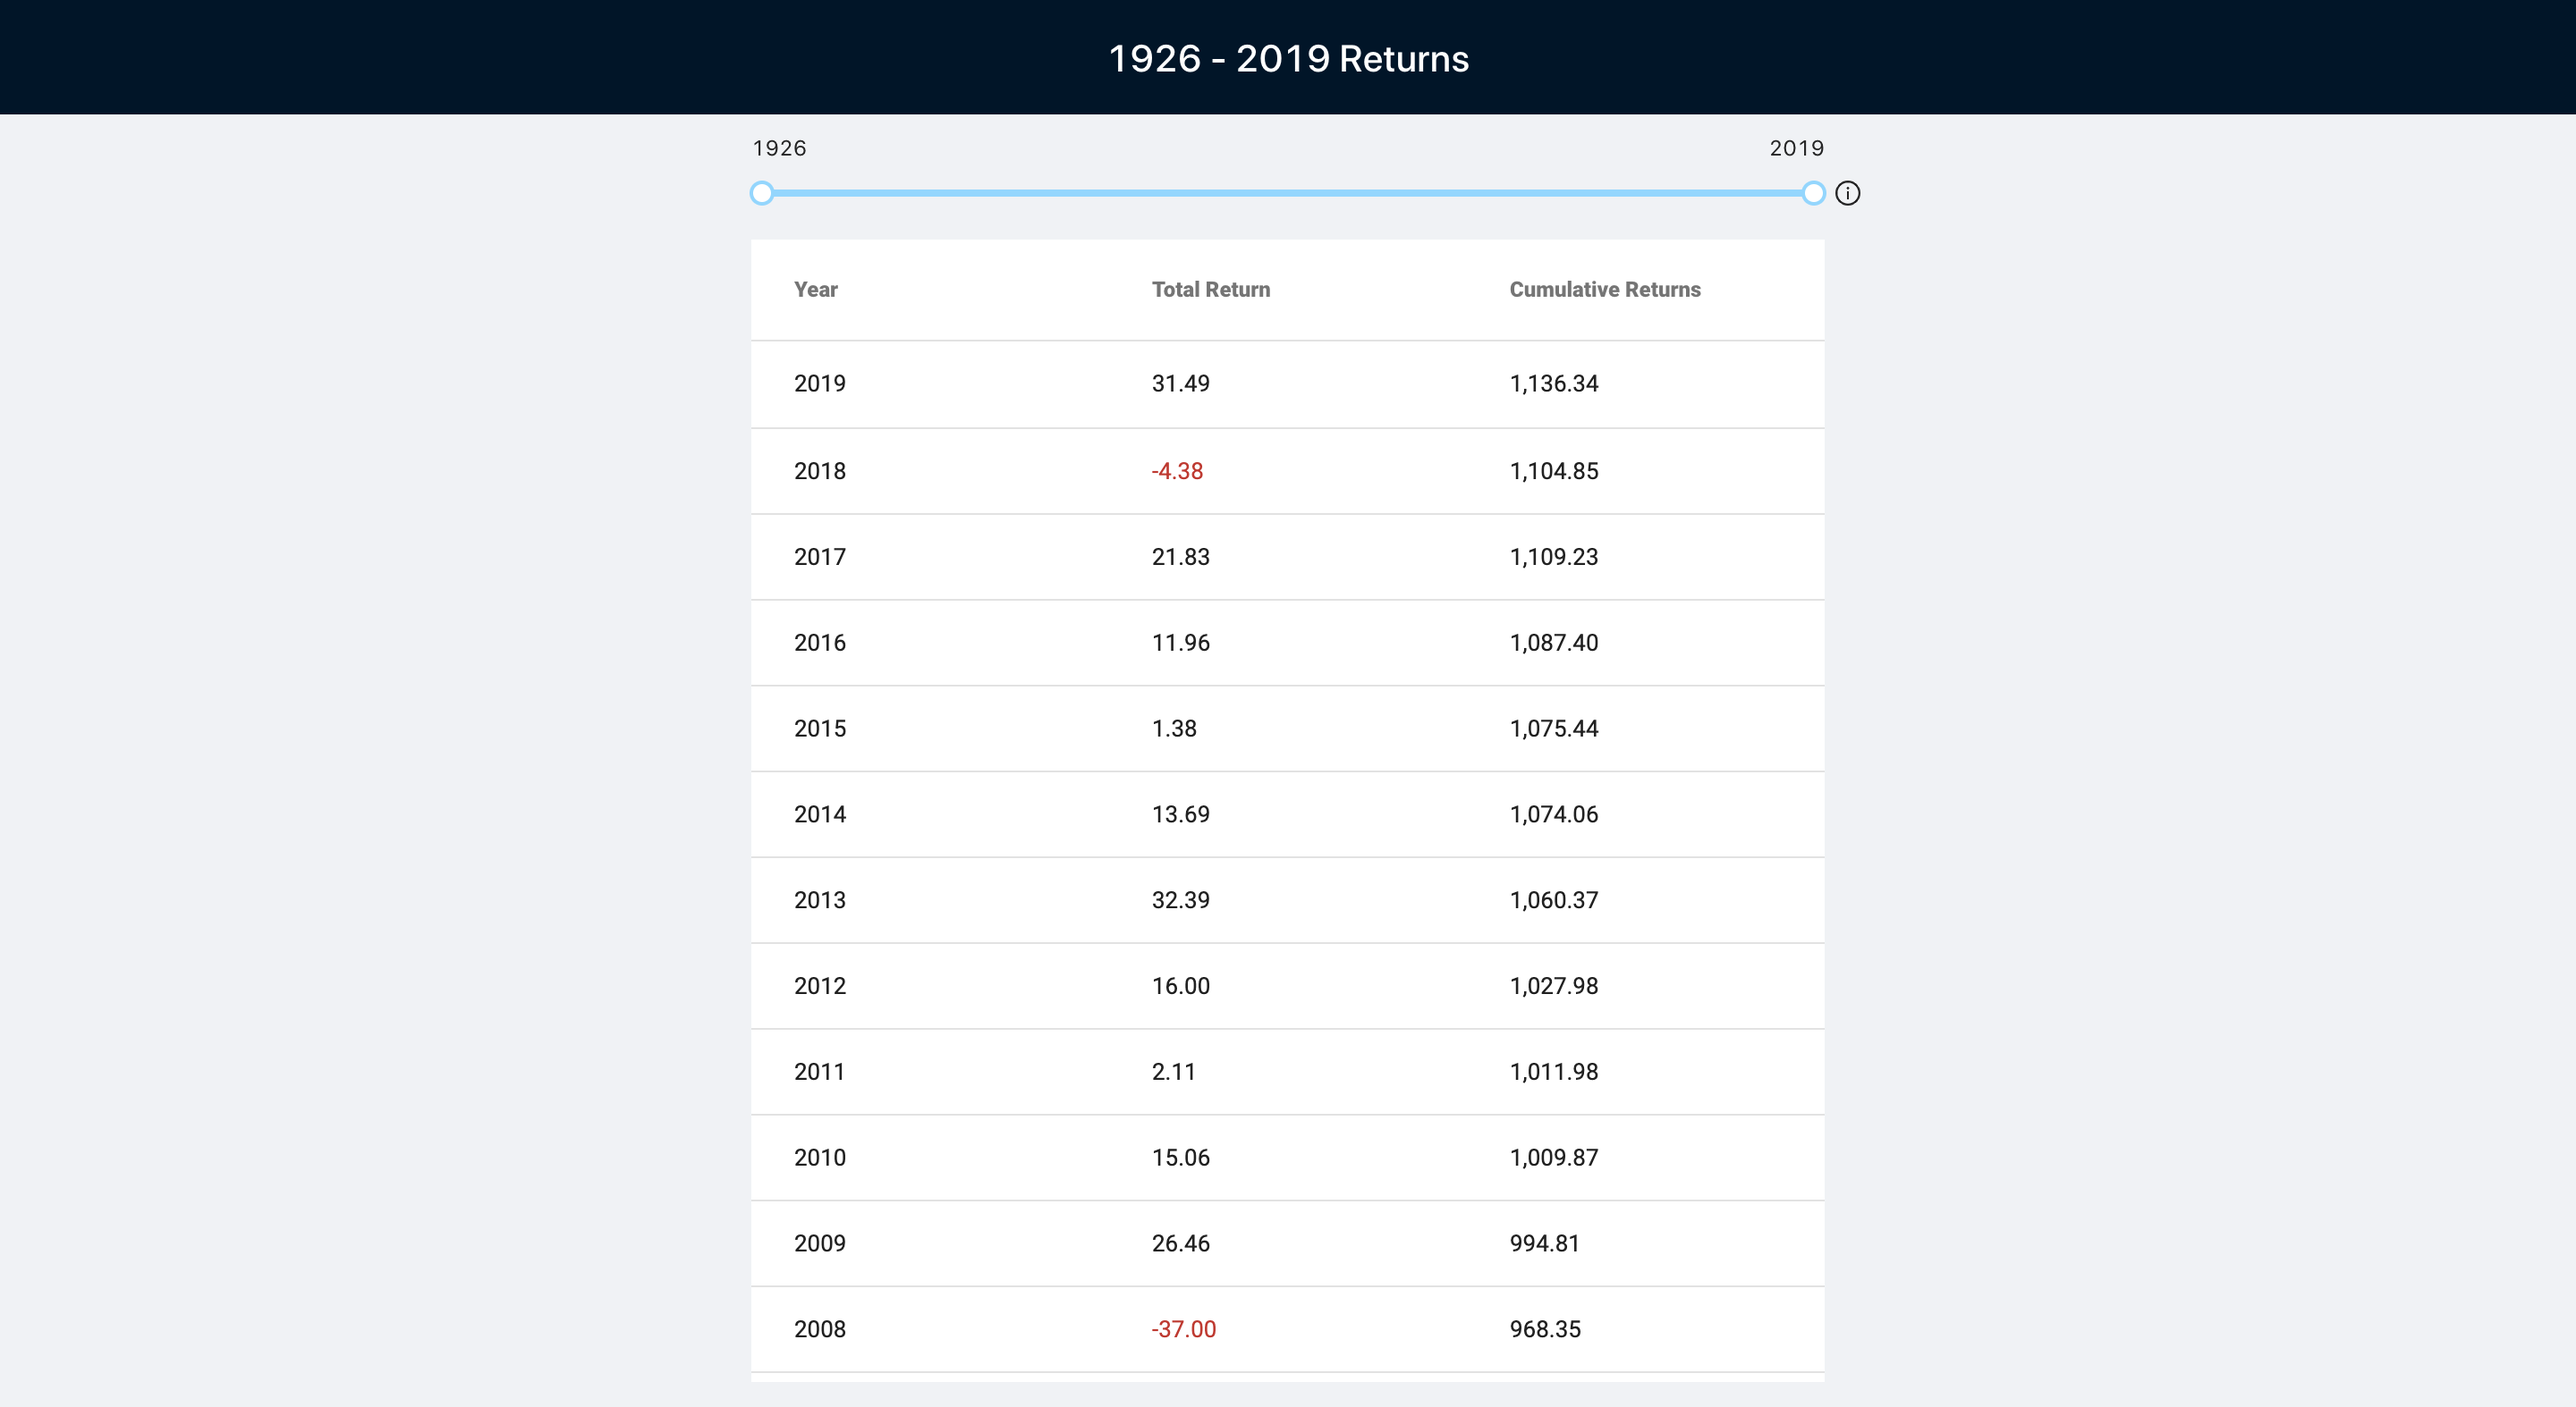
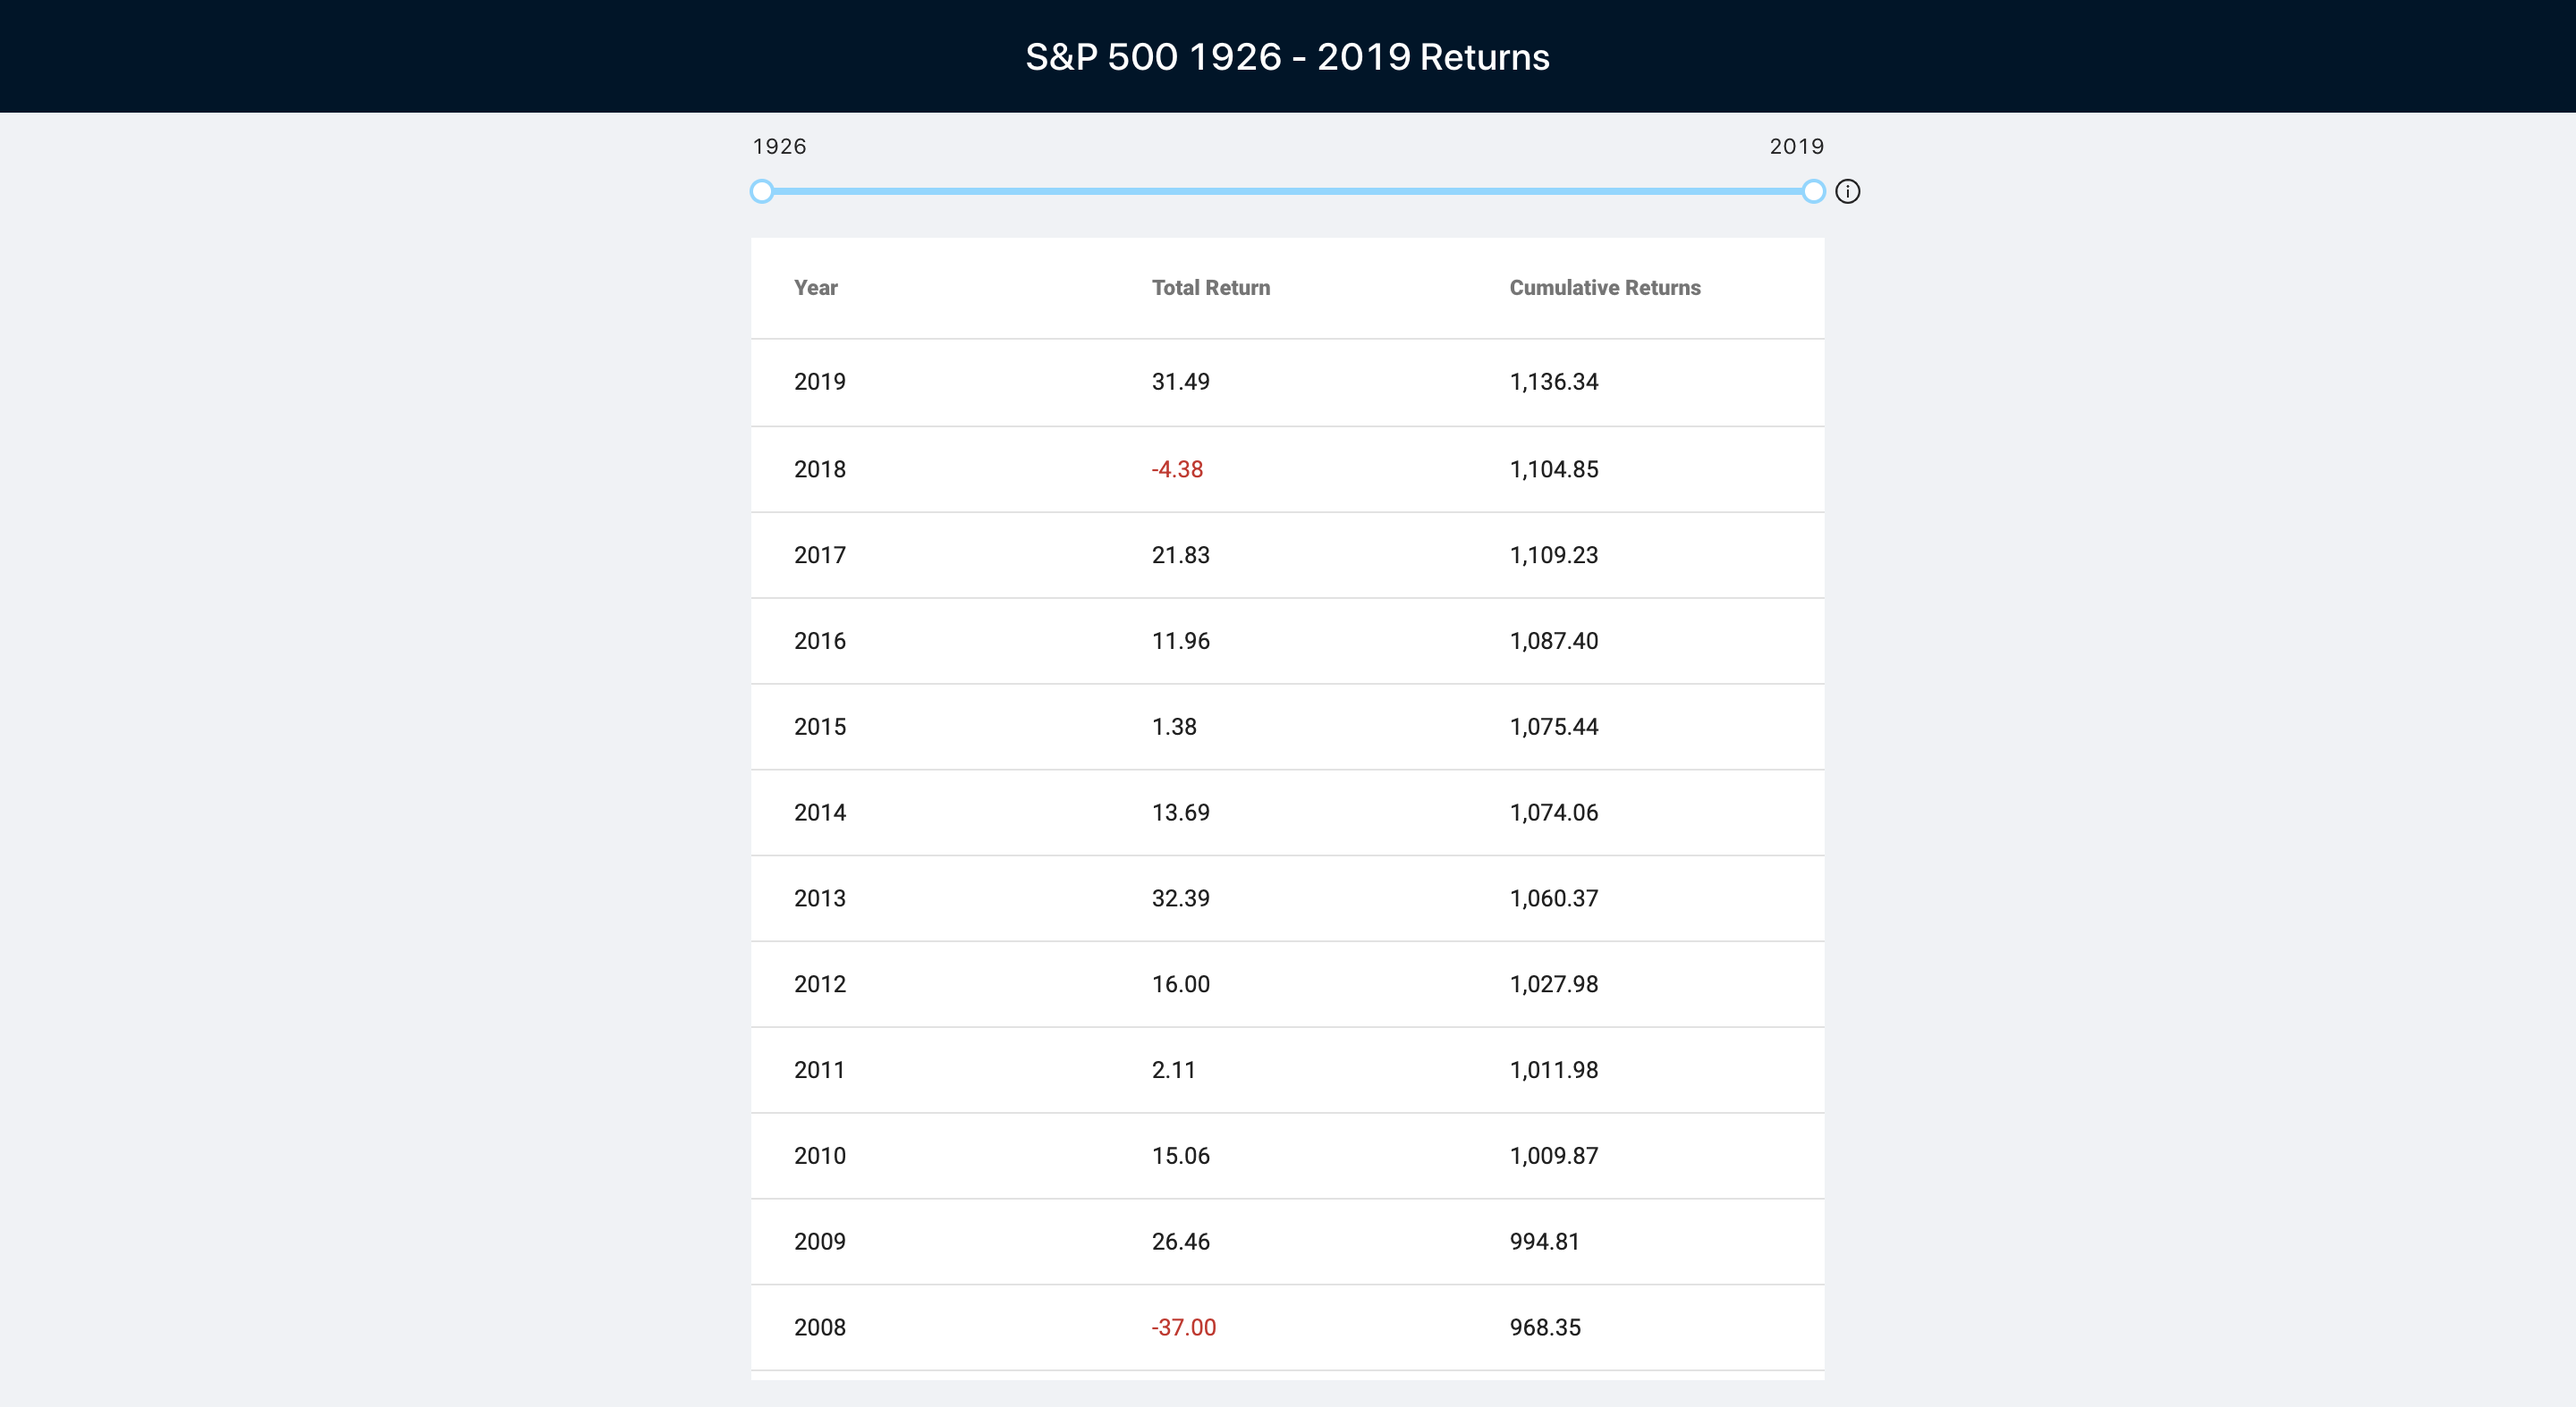
add S&P 500 to the title

diff --git a/src/App.tsx b/src/App.tsx
@@ -84,7 +84,7 @@ const App: React.FC<AppProps> = function App({ returns, maxYear, minYear }) {
             textAlign: 'center'
           }}
         >
-          {state.minYear} - {state.maxYear} Returns
+          S&P 500 {state.minYear} - {state.maxYear} Returns
         </h1>
       </Layout.Header>
       <Layout.Content
